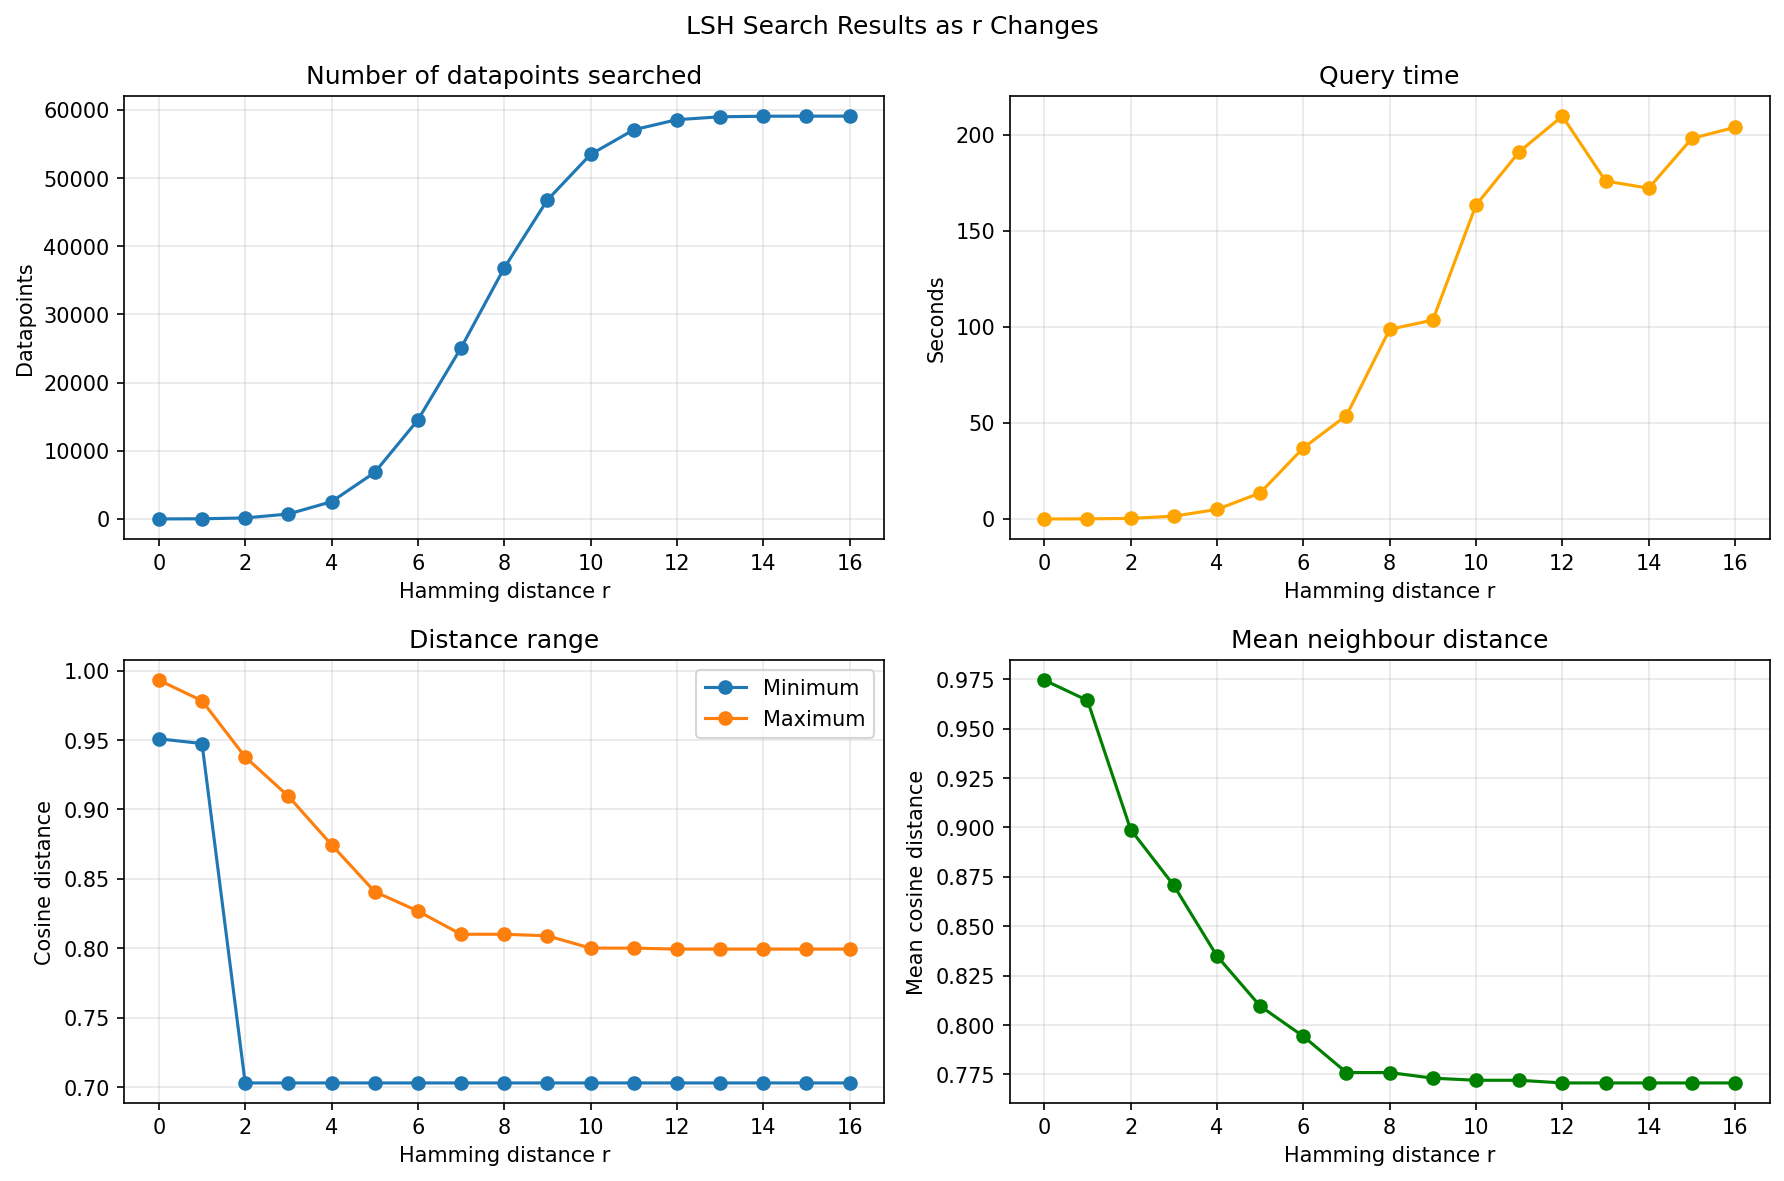
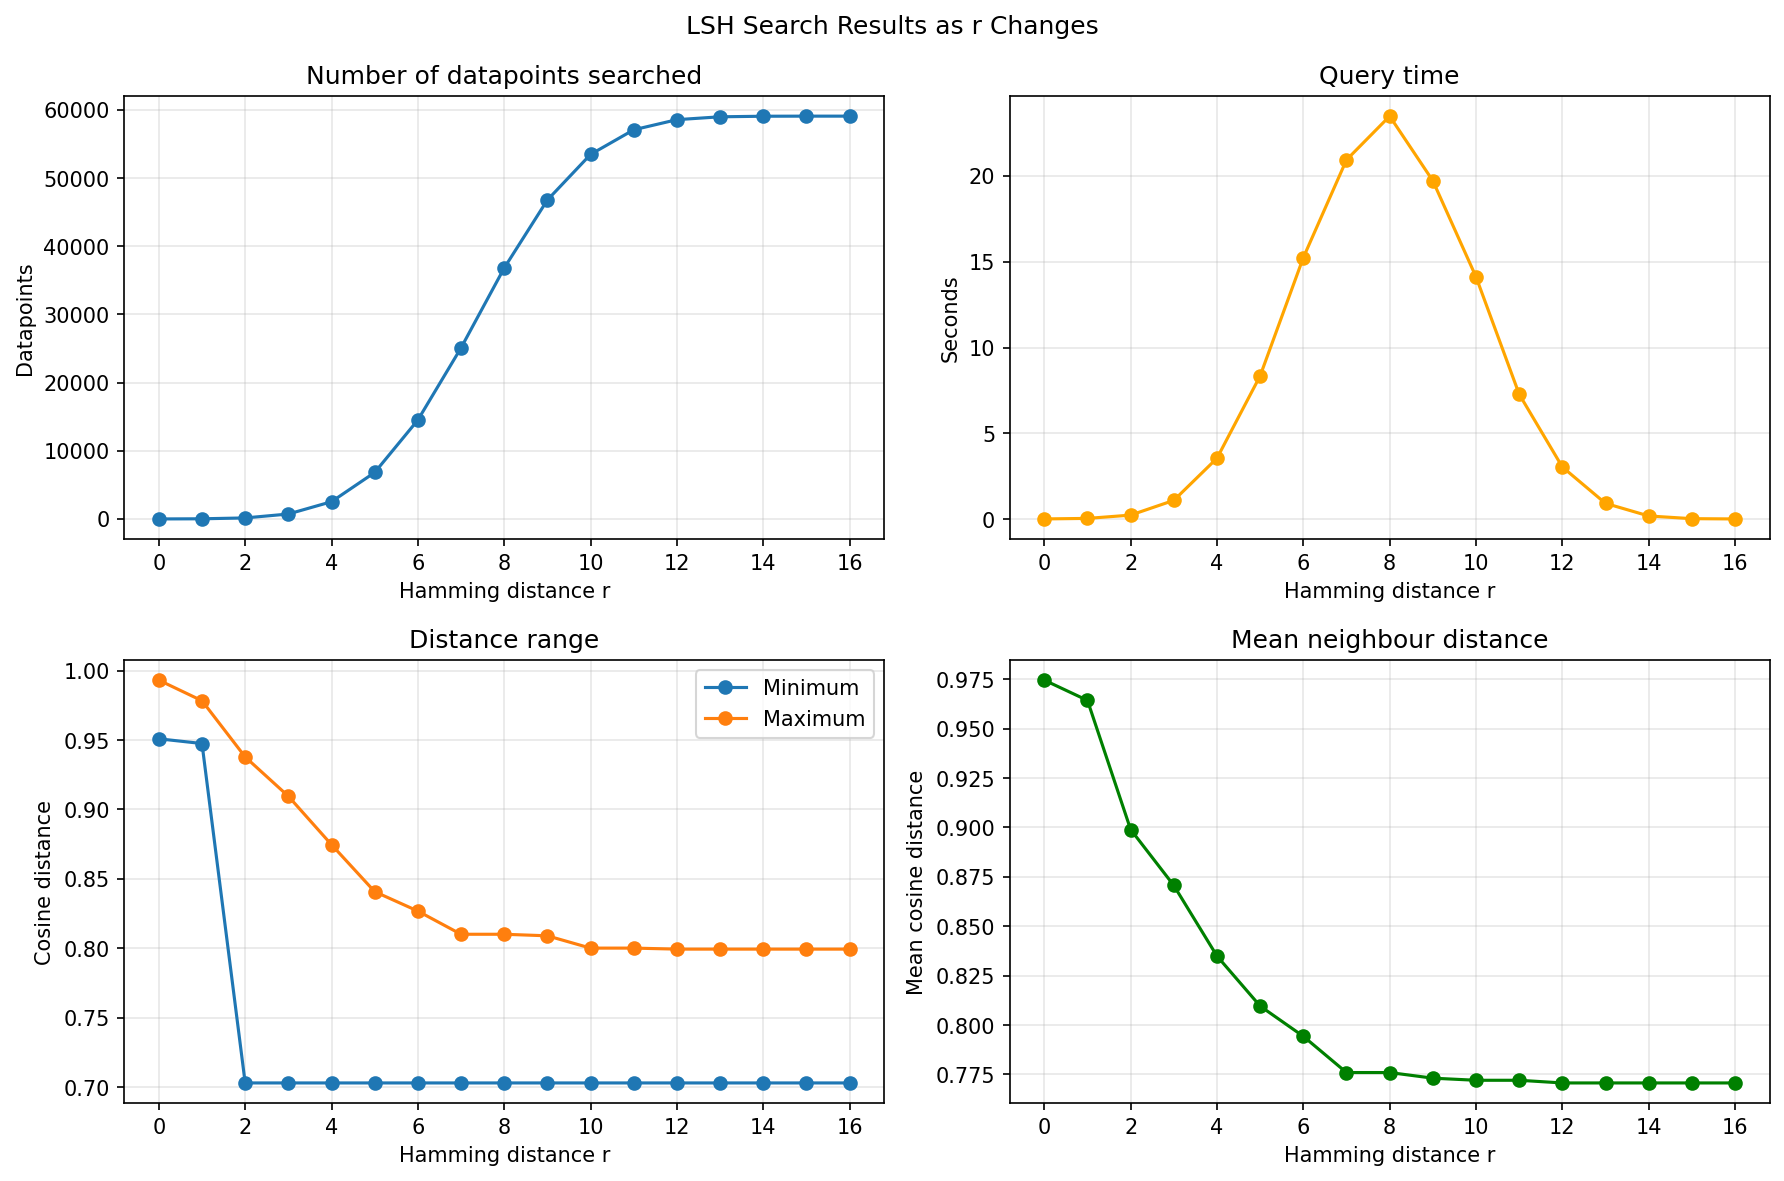
proved caching works

diff --git a/c4mod2assignment/c4mod2assignment_lsh.py b/c4mod2assignment/c4mod2assignment_lsh.py
@@ -81,9 +81,10 @@ def grid_search_r(model, X, i,
                   k, max_r, dummy=False):
     if dummy == True:
         return
+    model.clear_lsh_cache()
     for r in range(max_r):
         print_with_tms(f"doing grid search r {r} max_r {max_r}")
-        min_d, best_i = model.search(X=X, i=i, r=r)
+        min_d, best_i = model.search(X=X, i=i, r=r, reuse_cache=True)
         k_neighbour_list_local = model.report_searched_d_i2(k=k)
         k2 = len(k_neighbour_list_local)
         num_datapoints_grid.append(len(model.searched_d_i2))
@@ -215,7 +216,7 @@ for i2 in model.table[bin_obama]:
         a = model.cosine_distance(x=obama_tf_idf, y=doc_tf_idf)
         print(f"distance Obama other doc {a}")
 
-min_d, best_i = model.search(X=tf_idf, i=i_obama, r=2)
+min_d, best_i = model.search(X=tf_idf, i=i_obama, r=2, reuse_cache=False)
 print(f"min_d {min_d} best_i {best_i}")
 print(f"model.searched_bins {len(model.searched_bins)}")
 print(f"model.searched_d_i2 {len(model.searched_d_i2)}")
